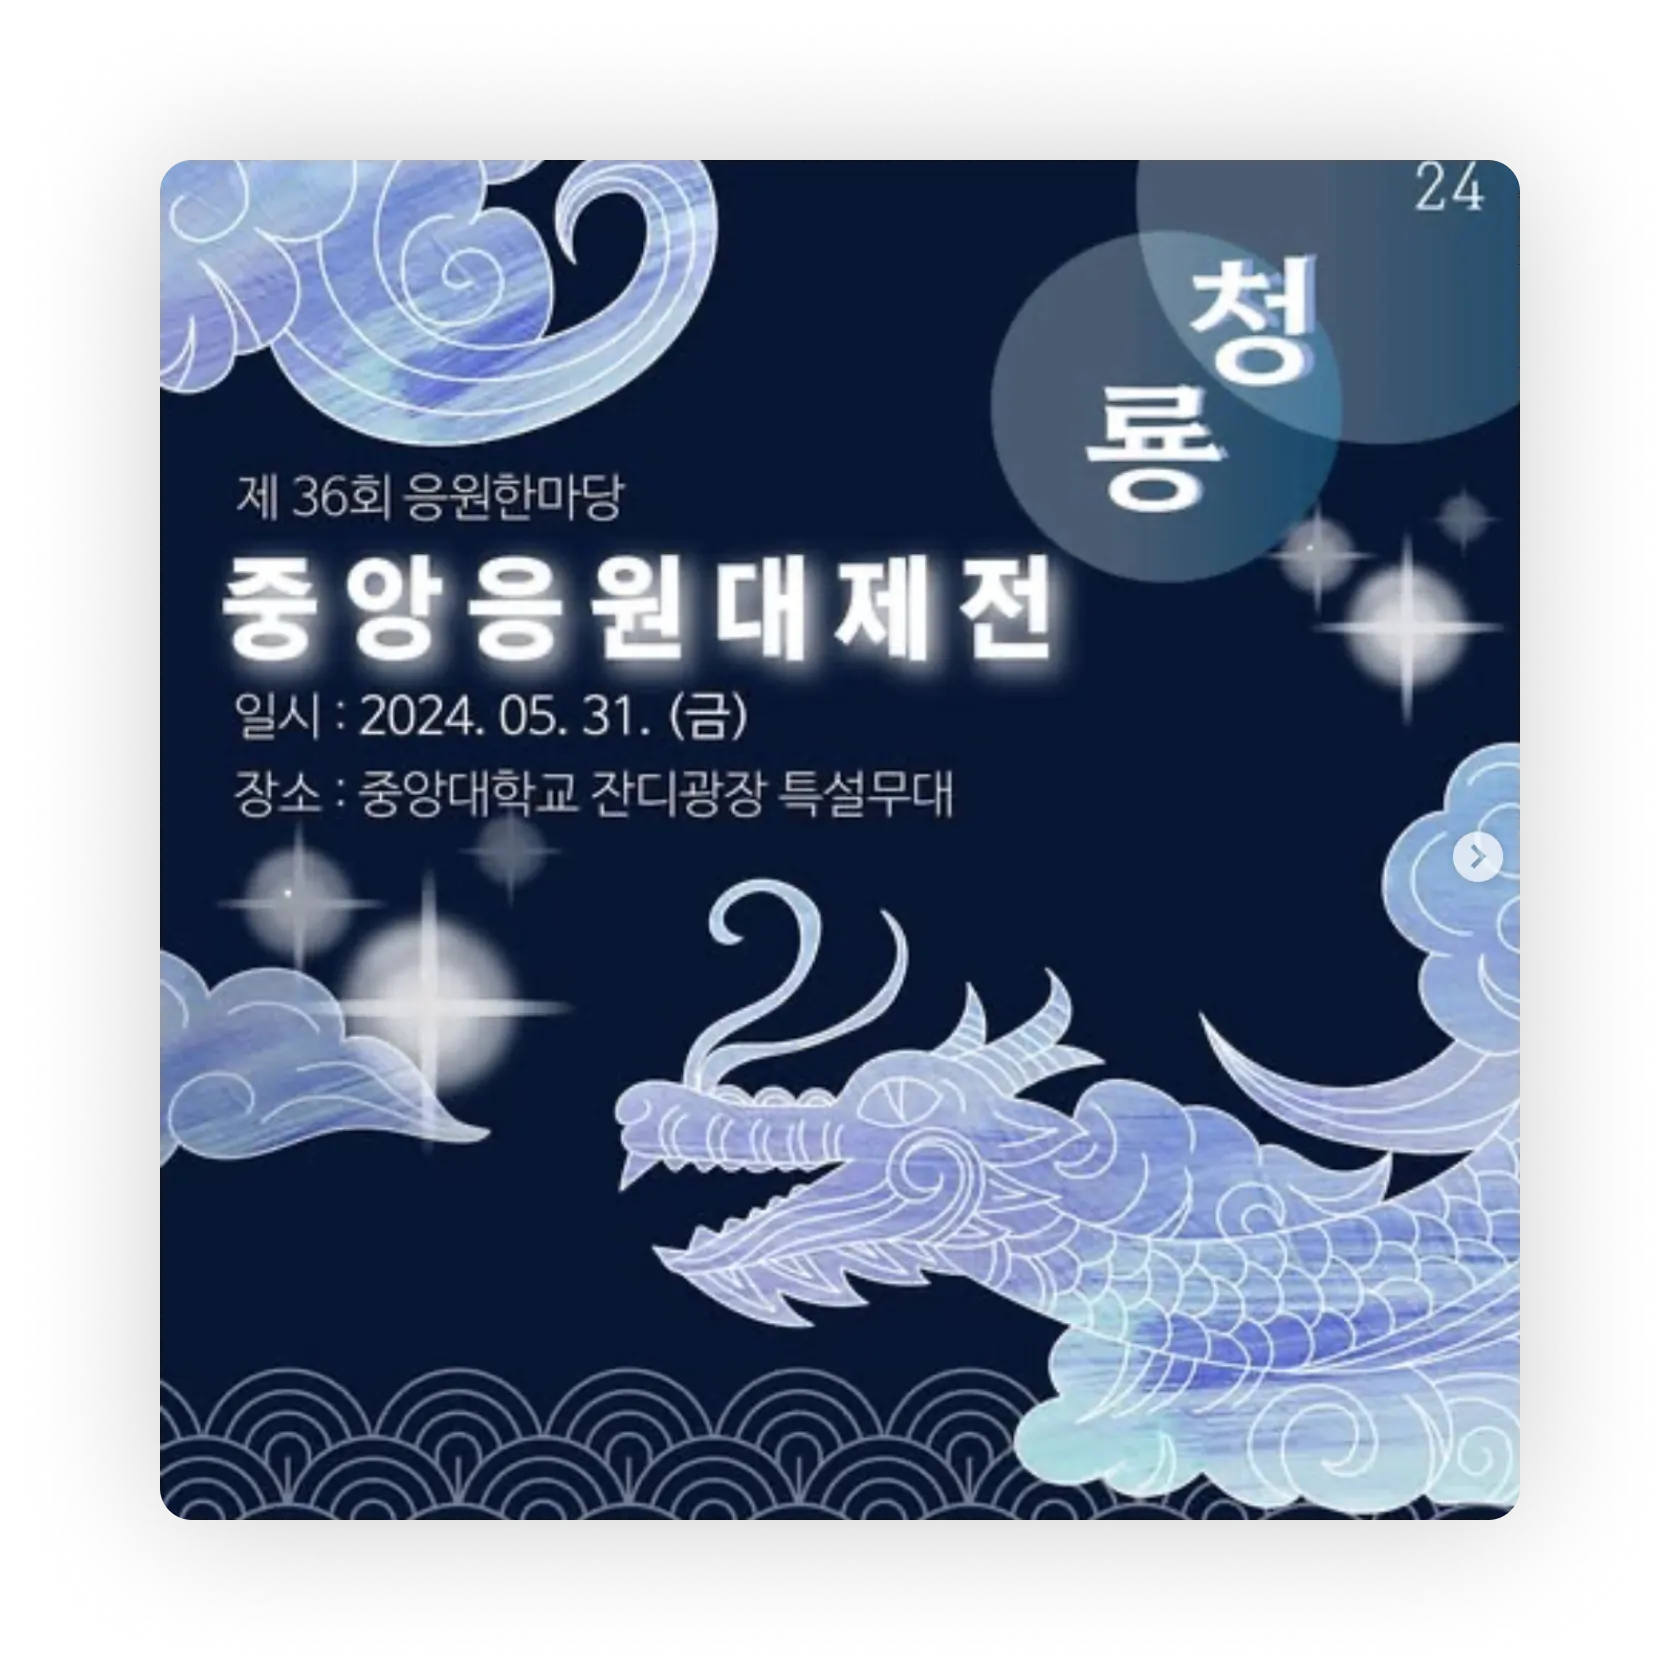
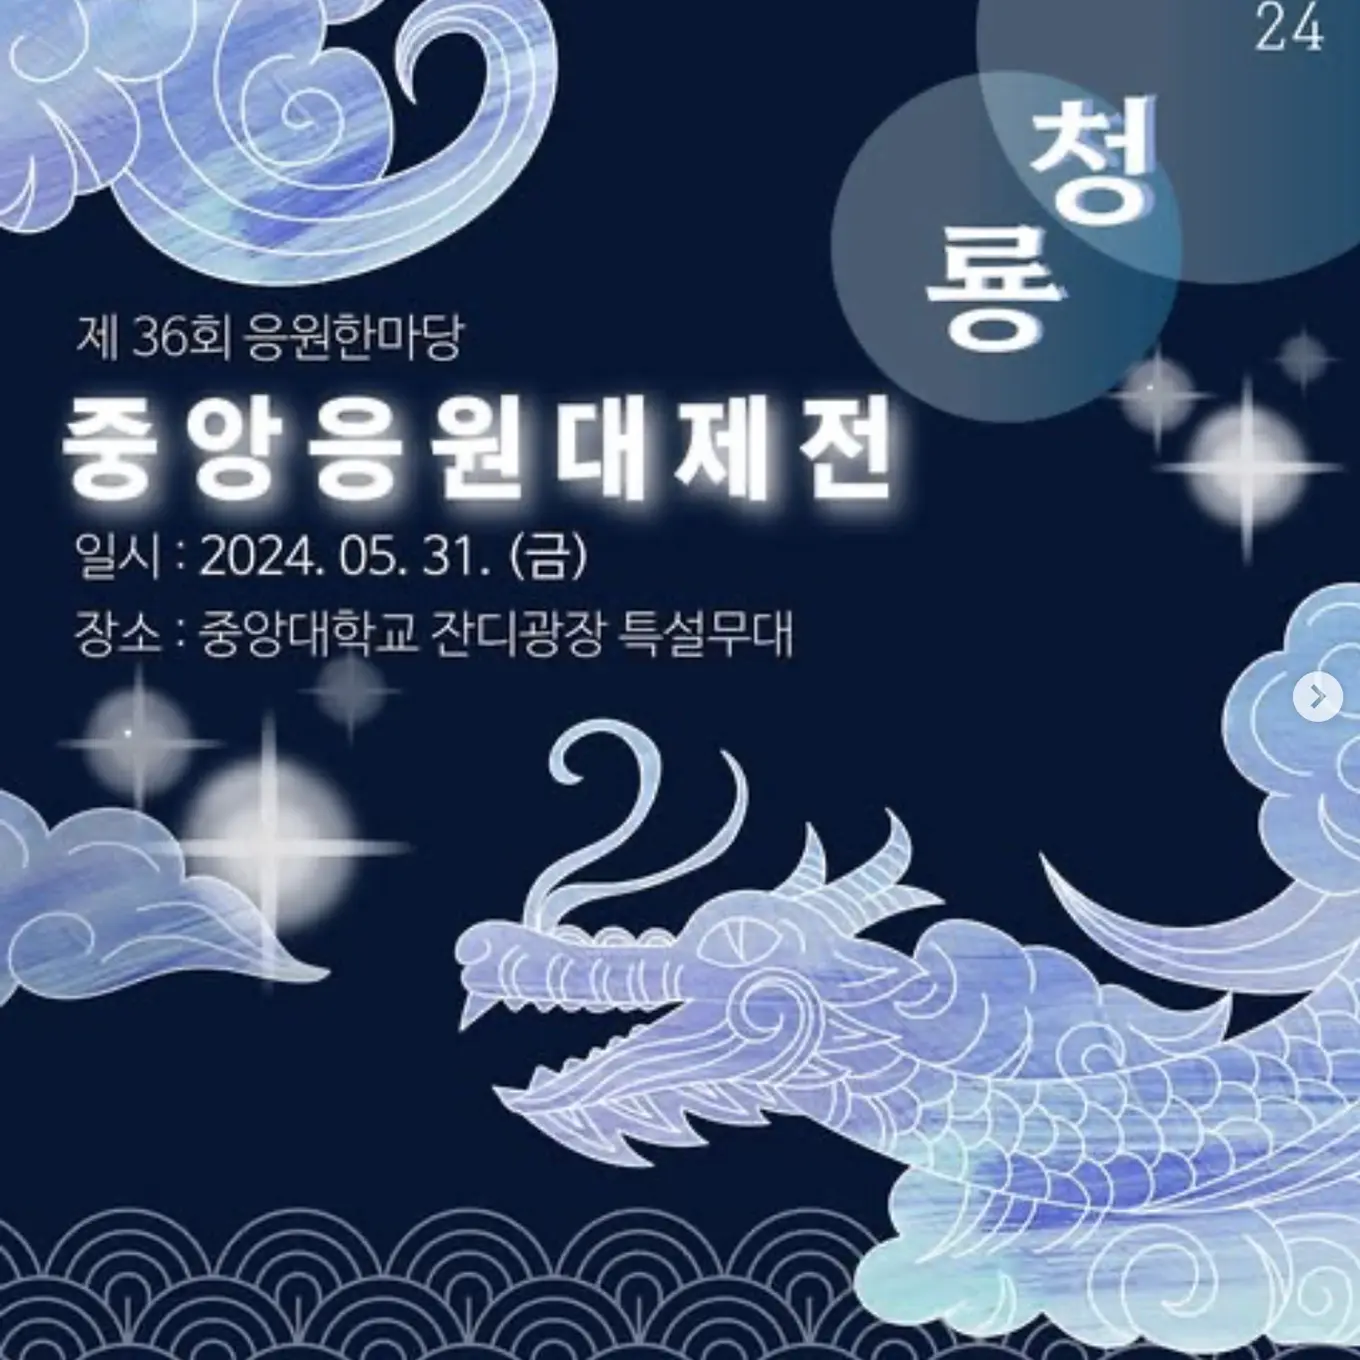
fix: 배너 컴포넌트 이미지 스타일 및 버튼 크기 조정

diff --git a/src/components/home/banner.tsx b/src/components/home/banner.tsx
@@ -85,35 +85,41 @@ const CardContent = styled.div`
 `;
 
 const Image = styled.img`
-  width: 80%;
+  width: 90%;
   height: auto;
   object-fit: cover;
-  border-radius: 16px;
-  box-shadow: 0px 0px 40px 0px #00000033;
+  border-radius: 8px;
+  box-shadow: 0px 0px 40px 0px rgba(0, 0, 0, 0.2);
 `;
 
 const Button = styled.button`
   position: absolute;
   top: 50%;
   transform: translateY(-50%);
-  padding: 8px;
+  width: 24px;
+  height: 24px;
   border-radius: 50%;
   border: none;
   cursor: pointer;
-  background: rgba(255, 255, 255, 0.5);
+  background: rgba(255, 255, 255, 0.8);
   box-shadow: 0 2px 5px rgba(0, 0, 0, 0.2);
+  display: flex;
+  align-items: center;
+  justify-content: center;
+  z-index: 3;
+  transition: background 0.2s ease;
 
   &:hover {
-    background: #e0e0e0;
+    background: rgba(255, 255, 255, 1);
   }
 `;
 
 const LeftButton = styled(Button)`
-  left: 10px;
+  left: 16px;
 `;
 
 const RightButton = styled(Button)`
-  right: 10px;
+  right: 16px;
 `;
 
 const Indicators = styled.div`
@@ -153,13 +159,10 @@ const BackCardRight = styled.div`
   transform: translateY(-50%) translateX(30%);
   width: 60%;
   z-index: 1;
-  opacity: 0.2;
 `;
 
 const BackCardImage = styled.img`
   width: 100%;
   height: auto;
   object-fit: cover;
-  filter: blur(1px);
-  border-radius: 16px;
 `;
